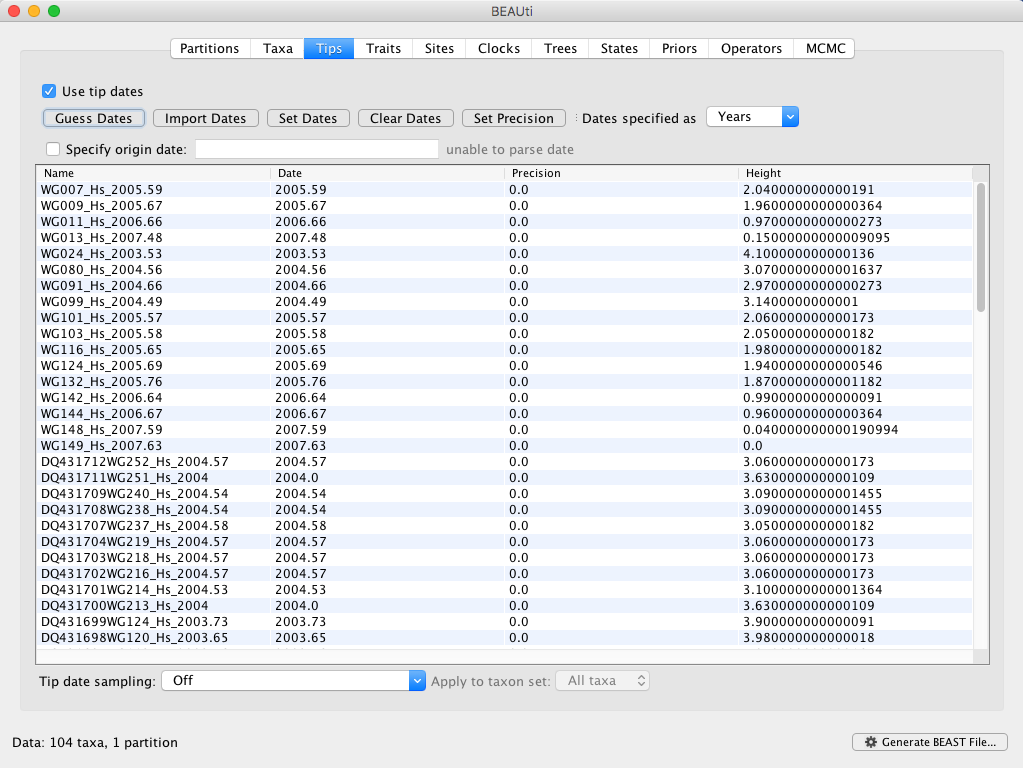
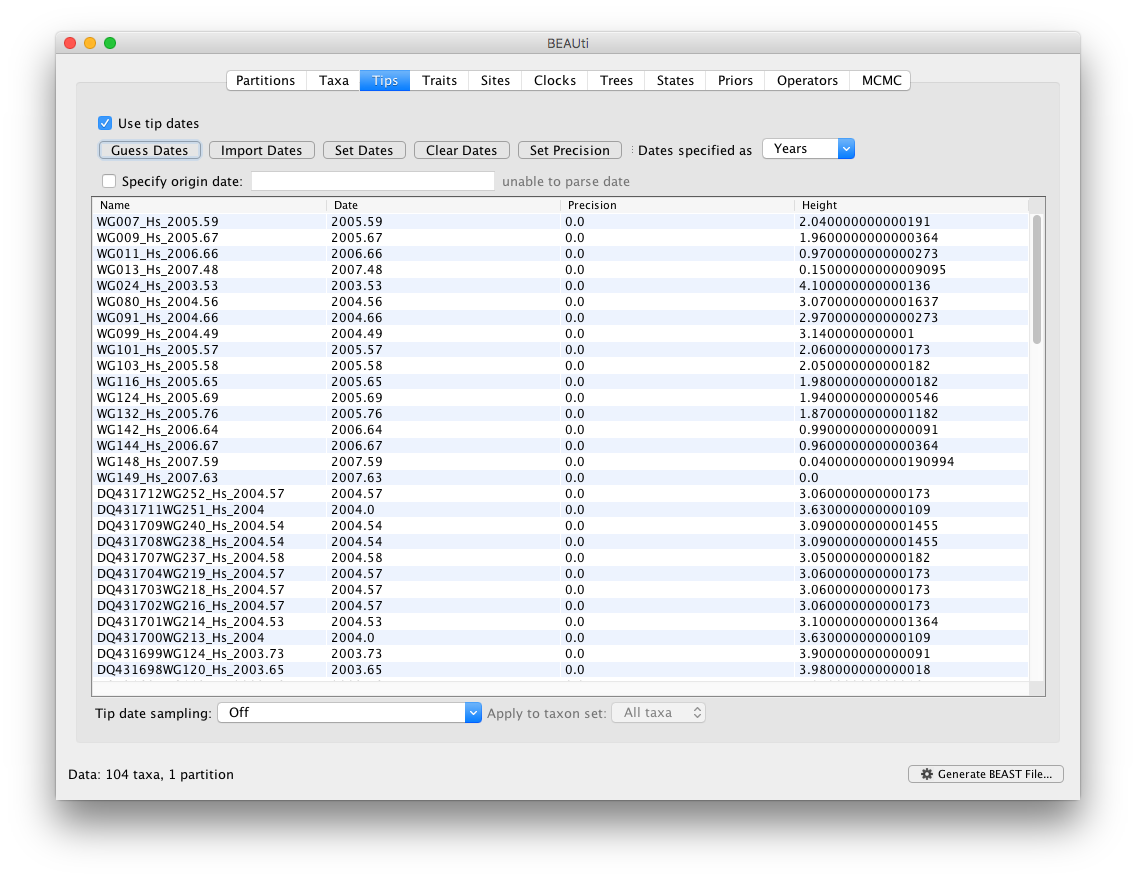
figure sizes

Changed region(s): [[0.0, 0.0, 1.0, 1.0]]

diff --git a/tutorials/howtos/tip_date_sampling.md b/tutorials/howtos/tip_date_sampling.md
@@ -17,7 +17,7 @@ WNV is a mosquito-borne RNA virus whose primary host is birds, and was first det
 The data are 104 genomes collected between 1999 and 2008.
 The taxon labels contain the sampling dates for all the sequences in the data set, as can be seen in the figure below.
 
-{% include image.html file="WNV_dates.png" prefix="tutorials/howtos/" width="70%" alt="WNV sampling dates" caption="" %}
+{% include image.html file="WNV_dates.png" prefix="tutorials/howtos/" width="90%" alt="WNV sampling dates" caption="" %}
 
 **Note:** To inform BEAUti/BEAST about the sampling dates of the sequences, check out the [tutorial on how to extract dates from taxon labels](tip_dates).
 
@@ -28,7 +28,7 @@ The 'Precision' column allows specifying with what precision the sampling times 
 This is useful in the WNV case because some sampling dates are known to the exact day, while others are only known up to the year of sampling (those without decimal in the taxa name or with the .0 decimal in the Date column), and BEAST allows to integrate over the uncertainty of the latter. 
 To make use of the ability to adequately accommodate the uncertainty of our sampling dates, select all the taxa (holding down the cmd of shift key) with sampling dates only known up to the year in the Tips window and click on 'Set Precision'.
   
-{% include image.html file="setPrecision.png" prefix="tutorials/howtos/" width="70%" alt="Set precision for selected taxa" caption="" %}
+{% include image.html file="setPrecision.png" prefix="tutorials/howtos/" width="90%" alt="Set precision for selected taxa" caption="" %}
 
 Enter (for example) '1.0' as the precision value for 1 year. 
 This will instruct BEAST to add a half year to those sampling dates (currently without visually updating the value in BEAUti) and construct a uniform window of 1 year around this new value. 
@@ -43,7 +43,7 @@ In order to enable this feature, one or more taxon sets need to be constructed.
 
 When a taxon set has been created, the option 'Sampling with individual priors' can be selected and applied to a taxon set of choice, here with ID 'TaxonSetOne'.
 
-{% include image.html file="individualPriorSampling.png" prefix="tutorials/howtos/" width="70%" alt="Sampling dates with prior information" caption="" %}
+{% include image.html file="individualPriorSampling.png" prefix="tutorials/howtos/" width="90%" alt="Sampling dates with prior information" caption="" %}
 
 This estimation process needs a set of priors to be defined in the 'Priors' tab in BEAUti.
 
